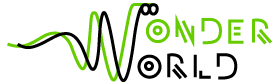
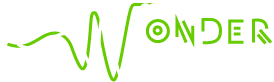
next launch
Minor touches to get it ready for tonight

Changed region(s): [[0.0584, 0.0244, 0.8759, 1.0]]

diff --git a/WonderWorldRealityUpdated/assets/css/main.css b/WonderWorldRealityUpdated/assets/css/main.css
@@ -8464,7 +8464,7 @@
 				z-index: 10001;
 				position: fixed;
 				width: 100%;
-				background-color: rgba(255, 255, 255, 1);
+				background-color: rgba(26, 20, 35, 1);
 			}
 
 			nav a {
@@ -8570,7 +8570,7 @@
 				padding: 10px 0 0 20px;
 			  display: flex;
 				justify-content: center;
-			  color: #393939;
+			  color: white;
 			  border-top: 10px solid transparent;
 			  position: relative;
 				justify-content: space-between;
@@ -8708,8 +8708,8 @@
 			  transition-timing-function: ease-in;
 			}
 			.masthead .brand-container a img {
-				width: 50%;
-				height: 50%;
+				width: 60%;
+				height: 60%;
 
 				}
 			}
